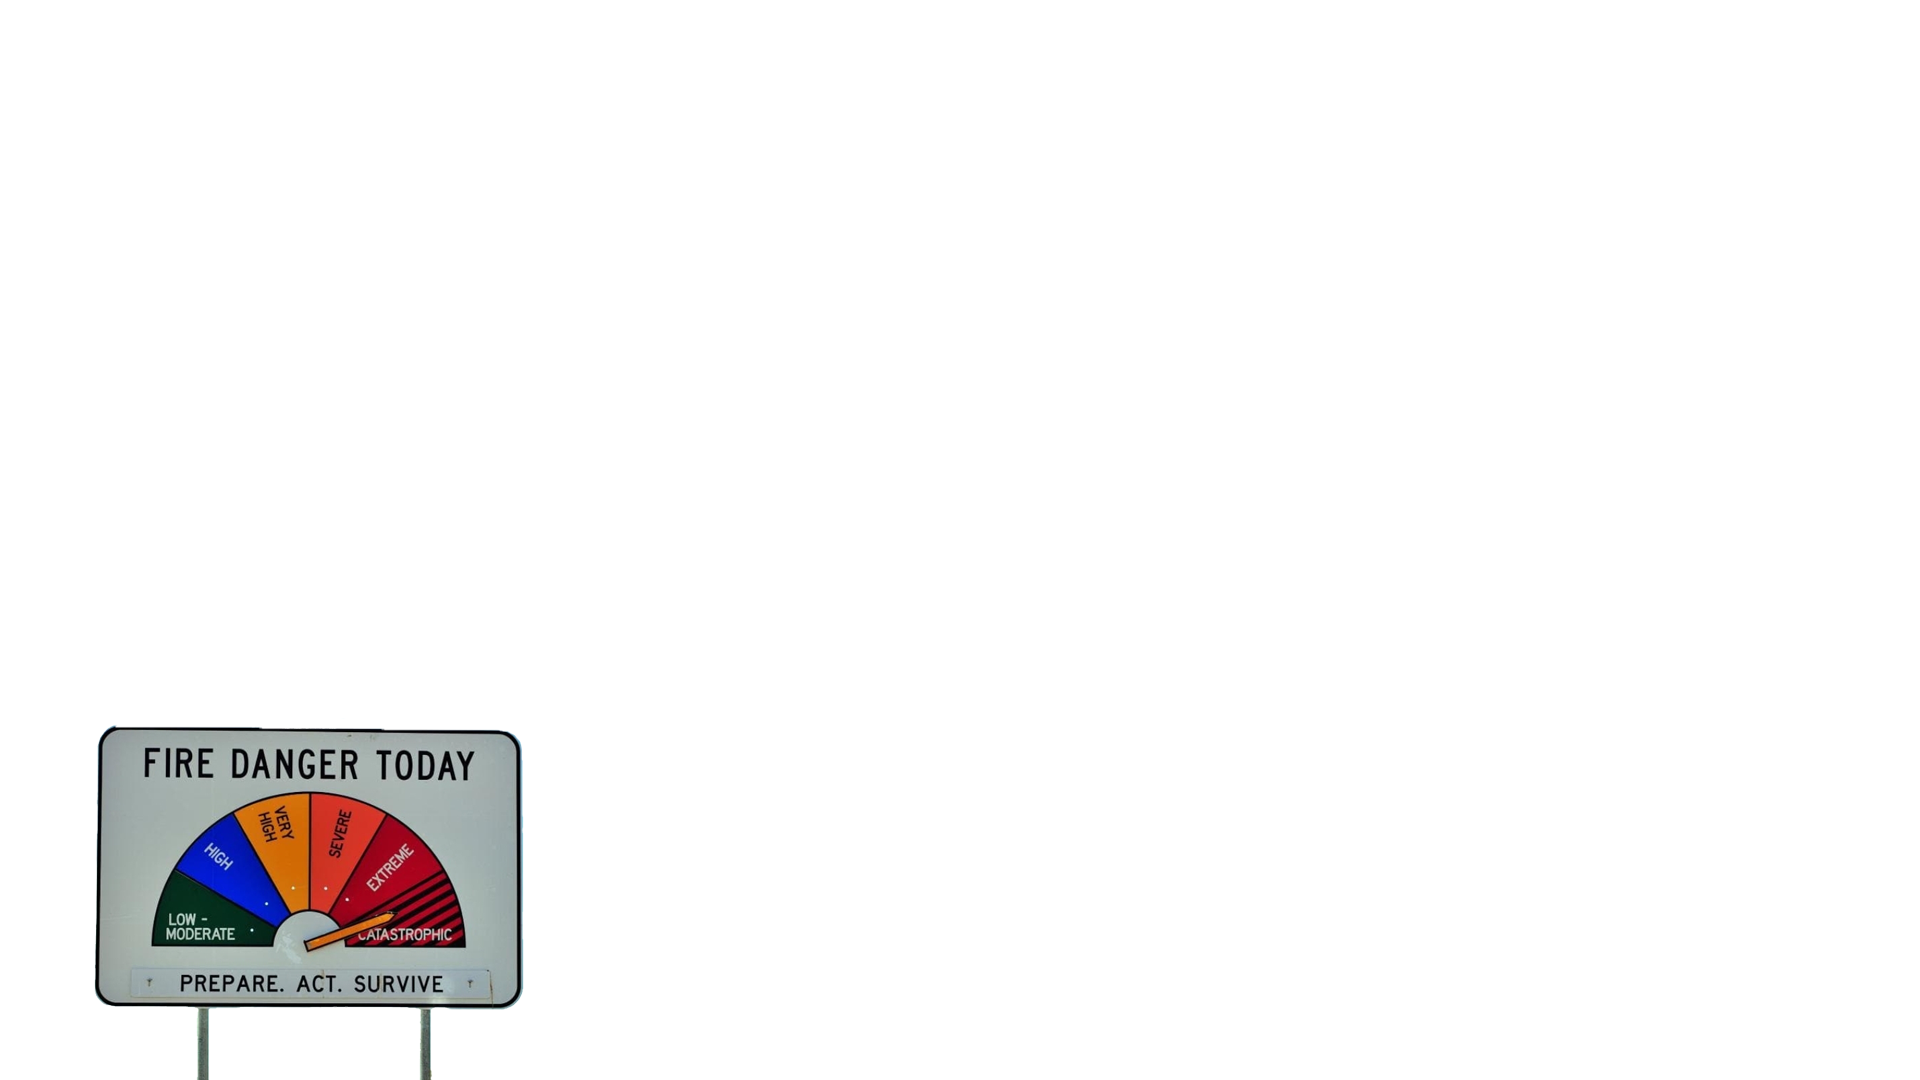
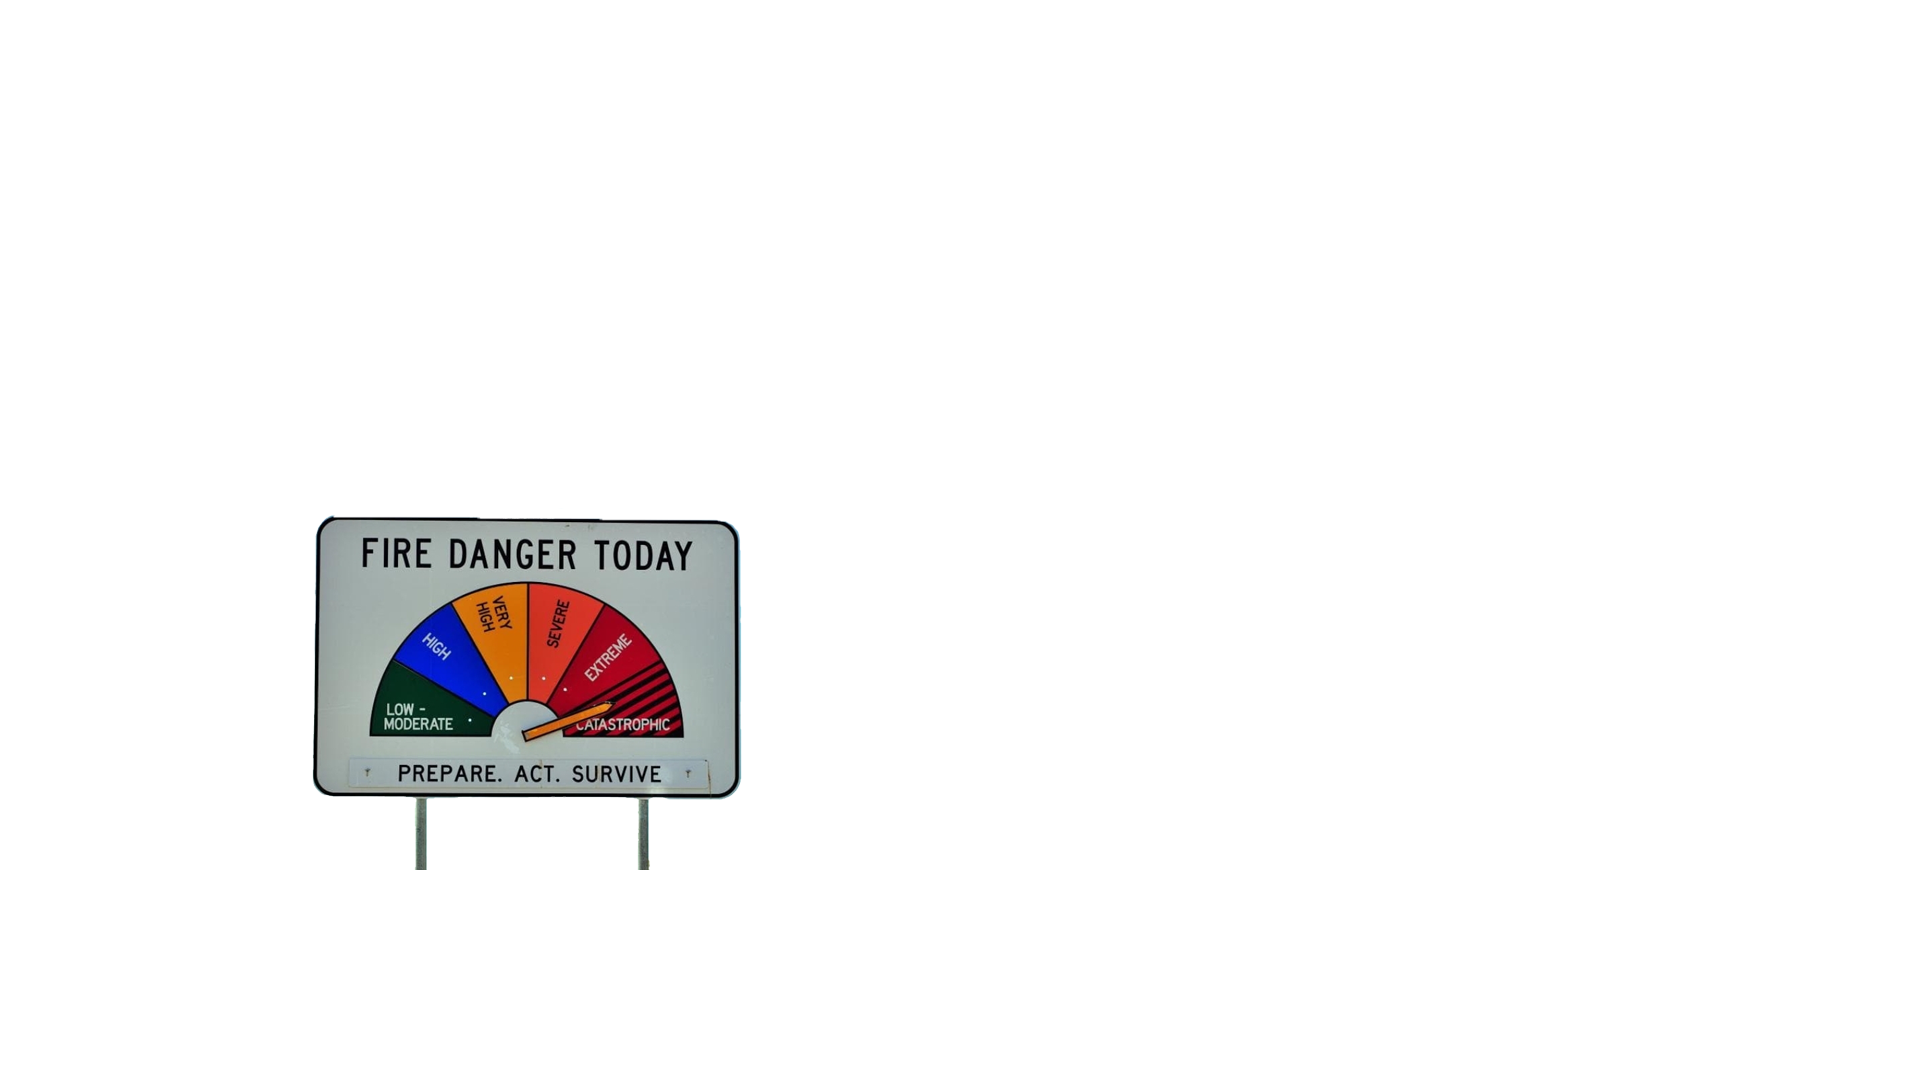
animated and responsive

Changed region(s): [[0.0312, 0.4583, 0.4062, 1.0]]

diff --git a/src/lib/ui/Intro.svelte b/src/lib/ui/Intro.svelte
@@ -14,43 +14,30 @@
   <div id="slidingMidground" />
   <div id="slidingForeground" />
   <div id="car" />
-  <div id="sign" />
 </div>
 
 <style>
-  #container {
-    overflow: hidden;
-  }
-
   #car {
     position: absolute;
     height: 100vh;
-    width: 300vw;
+    width: 100vw;
     background: url('introAssets/car.png');
     background-size: auto 100vh;
-  }
-
-  #sign {
-    position: absolute;
-    height: 100vh;
-    width: 300vw;
-    background: url('introAssets/sign.png') repeat-x;
-    animation: slide 60s linear infinite;
-    background-size: auto 100vh;
+    background-position: 50%;
   }
 
   #slidingBackground {
     position: absolute;
     height: 100vh;
-    width: 300vw;
+    width: 600vw;
     background: url('introAssets/background.png') repeat-x;
-    animation: slide 60s linear infinite;
+    animation: slide 30s linear infinite;
     background-size: auto 100vh;
   }
   #slidingMidground {
     position: absolute;
     height: 100vh;
-    width: 300vw;
+    width: 600vw;
     background: url('introAssets/midground.png') repeat-x;
     animation: slide 20s linear infinite;
     background-size: auto 100vh;
@@ -59,18 +46,18 @@
   #slidingForeground {
     position: absolute;
     height: 100vh;
-    width: 300vw;
+    width: 600vw;
     background: url('introAssets/foreground.png') repeat-x;
-    animation: slide 5s linear infinite;
+    animation: slide 7s linear infinite;
     background-size: auto 100vh;
   }
 
   @keyframes slide {
     0% {
-      transform: translate3d(-1920px, 0, 0);
+      transform: translate3d(-100vw, 0, 0);
     }
     100% {
-      transform: translate3d(0px, 0, 0);
+      transform: translate3d(0, 0, 0);
     }
   }
 </style>

diff --git a/src/App.svelte b/src/App.svelte
@@ -22,7 +22,9 @@
 </svelte:head>
 
 <Menu />
-<svelte:component this={scene[$currentState.appState].component} duration={3} />
+<svelte:component
+  this={scene[$currentState.appState].component}
+  duration={90} />
 
 <style>
 </style>
